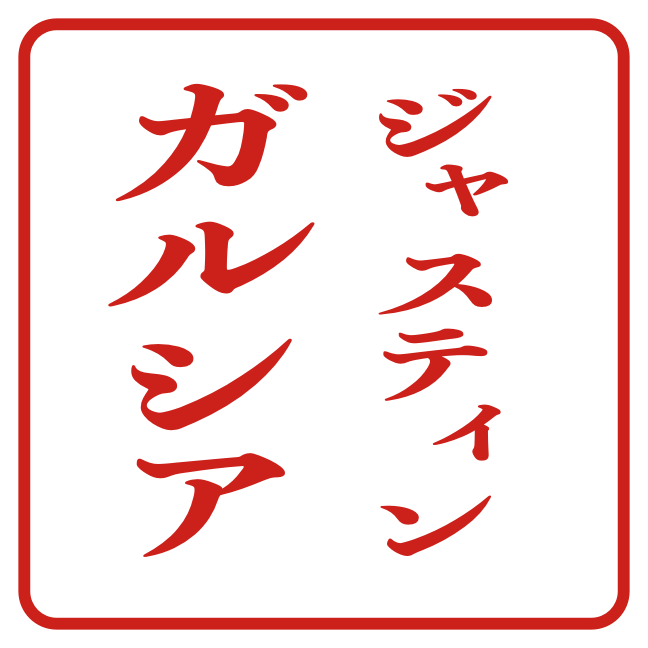
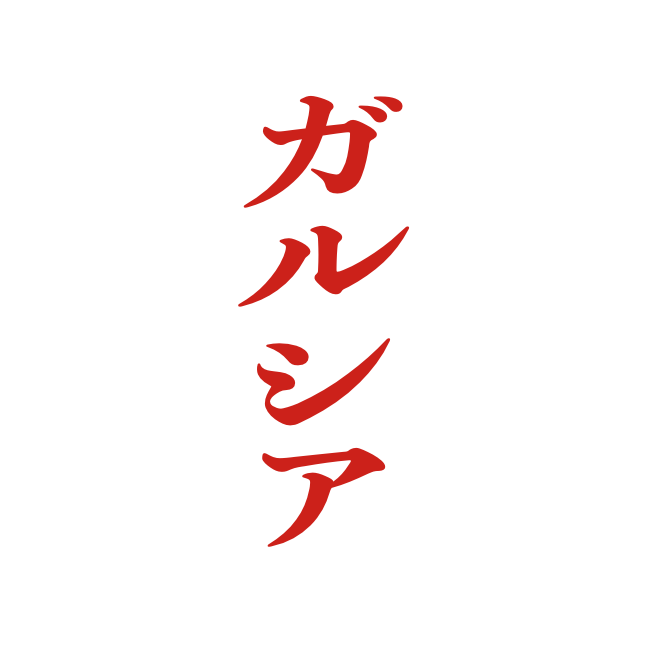
fixes

diff --git a/scripts/generate-karui-seal-qr.swift b/scripts/generate-karui-seal-qr.swift
@@ -1,9 +1,11 @@
-// Generates the animated seal at karui.jp/#qr, where ジャスティン ガルシア turns
-// into a QR code for karui.jp:
-//   assets/karui-qr-seal-name.png  the name seal: red lettering in a rounded frame
-//   assets/karui-qr-seal.png       the plain red QR code in the same frame (the end)
+// Generates the animated seal at karui.jp/#qr, where ガルシア, in a narrow frame
+// like the footer seal, turns into a QR code for karui.jp:
+//   assets/karui-qr-seal-name.png  the red lettering alone, on transparent; the page
+//                                  draws the frame so it can widen
+//   assets/karui-qr-seal.png       the plain red QR code in a square frame (the end)
 //   assets/karui-qr-seal.json      each data dot's start (on the lettering) and end
-//                                  (its QR module), the markers, and the frame
+//                                  (its QR module), extra dots that fill out the
+//                                  lettering, the markers, and both frames
 //
 //   swift scripts/generate-karui-seal-qr.swift
 //
@@ -49,7 +51,7 @@ let frameInset = margin * 0.45, frameWidth = size * 0.022, frameRadius = size * 
 // plain grid is centered at margin + (col + 0.5) * pitch in the rounded one.
 let pitch = size / CGFloat(gridPixels)
 
-func render(_ path: String, _ body: (CGContext) -> Void) -> NSBitmapImageRep {
+func render(framed: Bool = true, _ body: (CGContext) -> Void) -> NSBitmapImageRep {
     let bitmap = NSBitmapImageRep(
         bitmapDataPlanes: nil, pixelsWide: Int(canvas), pixelsHigh: Int(canvas),
         bitsPerSample: 8, samplesPerPixel: 4, hasAlpha: true, isPlanar: false,
@@ -58,10 +60,14 @@ func render(_ path: String, _ body: (CGContext) -> Void) -> NSBitmapImageRep {
     NSGraphicsContext.saveGraphicsState()
     NSGraphicsContext.current = NSGraphicsContext(bitmapImageRep: bitmap)
     let context = NSGraphicsContext.current!.cgContext
+    guard framed else {
+        body(context)
+        NSGraphicsContext.restoreGraphicsState()
+        return bitmap
+    }
     NSColor.white.setFill()
     NSRect(x: 0, y: 0, width: canvas, height: canvas).fill()
     body(context)
-    // The frame both seals share, so it stays still while the dots move.
     let frame = NSBezierPath(
         roundedRect: NSRect(x: 0, y: 0, width: canvas, height: canvas).insetBy(dx: frameInset, dy: frameInset),
         xRadius: frameRadius,
@@ -79,39 +85,37 @@ func write(_ bitmap: NSBitmapImageRep, to path: String) {
     print("Wrote \(path) (\(Int(canvas)) px)")
 }
 
-// Two columns read right to left: ジャスティン, then ガルシア.
+// The name seal's frame: as tall as the code's square frame and shaped like the
+// 24 × 51-point footer seal, centered. The page widens it into the square one.
+let squareSide = canvas - frameInset * 2
+let nameFrame = CGRect(x: (canvas - squareSide * 24 / 51) / 2, y: frameInset, width: squareSide * 24 / 51, height: squareSide)
+
+// ガルシア in one column, set like the footer seal.
 func drawName(_ context: CGContext, color: NSColor) {
-    let columns = ["ジャスティン", "ガルシア"].map(Array.init)
-    let inner = NSRect(x: 0, y: 0, width: canvas, height: canvas).insetBy(dx: frameInset + frameWidth, dy: frameInset + frameWidth)
-    let usableWidth = inner.width * 0.78, usableHeight = inner.height * 0.84
-    let columnWidth = usableWidth / CGFloat(columns.count)
-    for (columnIndex, column) in columns.enumerated() {
-        let x = canvas / 2 + usableWidth / 2 - columnWidth * (CGFloat(columnIndex) + 0.5)
-        let step = usableHeight / CGFloat(column.count)
-        let fontSize = min(step * 1.12, columnWidth * 0.95)
-        // Seal lettering is stretched to fill its column; katakana are narrow otherwise.
-        let stretch = min(columnWidth * 0.92 / fontSize, 1.6)
-        for (index, character) in column.enumerated() {
-            let y = canvas / 2 + usableHeight / 2 - step * (CGFloat(index) + 0.5)
-            // In vertical Japanese, small kana like ャ and ィ sit toward the top right.
-            let isSmall = "ァィゥェォャュョッ".contains(character)
-            let nudge = isSmall ? CGPoint(x: columnWidth * 0.14, y: step * 0.16) : .zero
-            let line = CTLineCreateWithAttributedString(NSAttributedString(
-                string: String(character),
-                attributes: [.font: NSFont(name: fontName, size: fontSize)!, .foregroundColor: color]
-            ))
-            let bounds = CTLineGetBoundsWithOptions(line, .useGlyphPathBounds)
-            context.saveGState()
-            context.translateBy(x: x + nudge.x, y: y + nudge.y)
-            context.scaleBy(x: stretch, y: 1)
-            context.textPosition = CGPoint(x: -bounds.midX, y: -bounds.midY)
-            CTLineDraw(line, context)
-            context.restoreGState()
-        }
+    let column = Array("ガルシア")
+    let inner = nameFrame.insetBy(dx: frameWidth, dy: frameWidth)
+    let usableWidth = inner.width * 0.72, usableHeight = inner.height * 0.80
+    let step = usableHeight / CGFloat(column.count)
+    let fontSize = min(step * 1.12, usableWidth * 0.95)
+    // Seal lettering is stretched to fill its column; katakana are narrow otherwise.
+    let stretch = min(usableWidth * 0.92 / fontSize, 1.6)
+    for (index, character) in column.enumerated() {
+        let y = canvas / 2 + usableHeight / 2 - step * (CGFloat(index) + 0.5)
+        let line = CTLineCreateWithAttributedString(NSAttributedString(
+            string: String(character),
+            attributes: [.font: NSFont(name: fontName, size: fontSize)!, .foregroundColor: color]
+        ))
+        let bounds = CTLineGetBoundsWithOptions(line, .useGlyphPathBounds)
+        context.saveGState()
+        context.translateBy(x: canvas / 2, y: y)
+        context.scaleBy(x: stretch, y: 1)
+        context.textPosition = CGPoint(x: -bounds.midX, y: -bounds.midY)
+        CTLineDraw(line, context)
+        context.restoreGState()
     }
 }
 
-let qrBitmap = render("assets/karui-qr-seal.png") { $0.draw(code, in: CGRect(x: margin, y: margin, width: size, height: size)) }
+let qrBitmap = render { $0.draw(code, in: CGRect(x: margin, y: margin, width: size, height: size)) }
 let detector = CIDetector(ofType: CIDetectorTypeQRCode, context: nil, options: [CIDetectorAccuracy: CIDetectorAccuracyHigh])!
 let decoded = detector.features(in: CIImage(cgImage: qrBitmap.cgImage!)).compactMap { ($0 as? CIQRCodeFeature)?.messageString }
 guard decoded == [url] else {
@@ -119,7 +123,7 @@ guard decoded == [url] else {
     exit(1)
 }
 write(qrBitmap, to: "assets/karui-qr-seal.png")
-write(render("assets/karui-qr-seal-name.png") { drawName($0, color: ink) }, to: "assets/karui-qr-seal-name.png")
+write(render(framed: false) { drawName($0, color: ink) }, to: "assets/karui-qr-seal-name.png")
 
 // The module grid: dark data modules, with the three corner markers and the small
 // alignment marker kept apart, since those are drawn as shapes rather than dots.
@@ -179,8 +183,10 @@ while spacing > 1 {
 }
 guard starts.count == ends.count else { fatalError("Couldn't place \(ends.count) points on the lettering") }
 
-// Pair starts with ends in a shared Hilbert-curve order, so neighbors travel together
-// instead of crisscrossing.
+// Pair starts with ends so the total distance is as small as possible (the Hungarian
+// algorithm): straight paths paired that way never cross, so the dots spread out
+// calmly instead of crisscrossing. Starts go in Hilbert-curve order, which the page
+// uses to stagger departures, so neighbors leave together.
 func hilbert(_ point: CGPoint, order: Int = 64) -> Int {
     var x = max(0, min(order - 1, Int(point.x / canvas * CGFloat(order))))
     var y = max(0, min(order - 1, Int(point.y / canvas * CGFloat(order))))
@@ -196,16 +202,62 @@ func hilbert(_ point: CGPoint, order: Int = 64) -> Int {
     }
     return distance
 }
+func minimumDistancePairing(_ a: [CGPoint], _ b: [CGPoint]) -> [Int] {
+    let n = a.count
+    var u = [Double](repeating: 0, count: n + 1), v = [Double](repeating: 0, count: n + 1)
+    var p = [Int](repeating: 0, count: n + 1), way = [Int](repeating: 0, count: n + 1)
+    func cost(_ i: Int, _ j: Int) -> Double { Double(hypot(a[i - 1].x - b[j - 1].x, a[i - 1].y - b[j - 1].y)) }
+    for i in 1...n {
+        p[0] = i
+        var j0 = 0
+        var minimum = [Double](repeating: .infinity, count: n + 1)
+        var used = [Bool](repeating: false, count: n + 1)
+        repeat {
+            used[j0] = true
+            let i0 = p[j0]
+            var delta = Double.infinity, j1 = 0
+            for j in 1...n where !used[j] {
+                let current = cost(i0, j) - u[i0] - v[j]
+                if current < minimum[j] { minimum[j] = current; way[j] = j0 }
+                if minimum[j] < delta { delta = minimum[j]; j1 = j }
+            }
+            for j in 0...n {
+                if used[j] { u[p[j]] += delta; v[j] -= delta } else { minimum[j] -= delta }
+            }
+            j0 = j1
+        } while p[j0] != 0
+        repeat { let j1 = way[j0]; p[j0] = p[j1]; j0 = j1 } while j0 != 0
+    }
+    var match = [Int](repeating: 0, count: n)
+    for j in 1...n { match[p[j] - 1] = j - 1 }
+    return match  // a[i] pairs with b[match[i]]
+}
+starts.sort { hilbert($0) < hilbert($1) }
+let match = minimumDistancePairing(starts, ends)
+
+// Extra dots so the dotted lettering reads like the lettering: more ink points,
+// about a third of a module apart. Each follows its nearest real dot and fades out
+// as it arrives, so the finished code still has exactly its own dots.
+var placed = starts
+var extras: [[Double]] = []
+for point in inkPoints where placed.allSatisfy({ hypot($0.x - point.x, $0.y - point.y) >= pitch * 0.32 }) {
+    placed.append(point)
+    let nearest = starts.indices.min { hypot(starts[$0].x - point.x, starts[$0].y - point.y) < hypot(starts[$1].x - point.x, starts[$1].y - point.y) }!
+    extras.append([Double(point.x), Double(point.y), Double(nearest)])
+}
+
 let rounding = { (value: CGFloat) in (Double(value) * 10).rounded() / 10 }
-let dots = zip(starts.sorted { hilbert($0) < hilbert($1) }, ends.sorted { hilbert($0) < hilbert($1) }).map { start, end in
-    [start.x, start.y, end.x, end.y].map(rounding)
+let dots = starts.enumerated().map { index, start in
+    [start.x, start.y, ends[match[index]].x, ends[match[index]].y].map(rounding)
 }
 let data: [String: Any] = [
     "canvas": rounding(canvas),
     "pitch": rounding(pitch),
     "frame": [rounding(frameInset), rounding(frameWidth), rounding(frameRadius)],
+    "nameFrame": [nameFrame.minX, nameFrame.minY, nameFrame.width, nameFrame.height].map(rounding),  // x, y, width, height
     "markers": markers.map { $0.map(rounding) },
     "dots": dots,  // [startX, startY, endX, endY], in canvas pixels, y down
+    "extras": extras.map { [rounding($0[0]), rounding($0[1]), $0[2]] },  // [startX, startY, index of the dot it follows]
 ]
 try! JSONSerialization.data(withJSONObject: data).write(to: root.appendingPathComponent("assets/karui-qr-seal.json"))
-print("Wrote assets/karui-qr-seal.json (\(dots.count) dots)")
+print("Wrote assets/karui-qr-seal.json (\(dots.count) dots, \(extras.count) extras)")

diff --git a/karui.html b/karui.html
@@ -67,7 +67,8 @@
     /* The seal that turns into a code: ジャスティン ガルシア dissolves into dots that
        curve into place, then the real code image takes over. Without JavaScript,
        or with Reduce Motion, the finished code shows straight away. */
-    .karui-qr-morph { position: relative; flex: 0 0 100%; aspect-ratio: 1; scroll-snap-align: center; }
+    .karui-qr-morph { position: relative; flex: 0 0 100%; aspect-ratio: 1; scroll-snap-align: center; container-type: inline-size; }
+    .karui-qr-morph-frame { position: absolute; box-sizing: border-box; border: 0 solid #cc2119; }
     .karui-qr-morph > img, .karui-qr-morph > svg { position: absolute; inset: 0; width: 100%; height: 100%; }
     .karui-qr-morph-name { opacity: 0; }
     .karui-qr-url, .karui-seal-title { font-size: 14pt; font-weight: bold; }
@@ -180,9 +181,9 @@
     <section class="karui-qr" id="qr" aria-label="QR code for karui.jp">
       <div class="karui-qr-slides">
         <div class="karui-qr-morph">
-          <img class="karui-qr-morph-name" src="assets/karui-qr-seal-name.png?v=1" alt="" width="648" height="648">
+          <img class="karui-qr-morph-name" src="assets/karui-qr-seal-name.png?v=2" alt="" width="648" height="648">
           <svg class="karui-qr-morph-dots" aria-hidden="true"></svg>
-          <img class="karui-qr-morph-final" src="assets/karui-qr-seal.png?v=1" alt="QR code that opens https://karui.jp/, in seal red" width="648" height="648">
+          <img class="karui-qr-morph-final" src="assets/karui-qr-seal.png?v=2" alt="QR code that opens https://karui.jp/, in seal red" width="648" height="648">
         </div>
         <img src="assets/karui-qr.png?v=1" alt="QR code that opens https://karui.jp/" width="719" height="719">
       </div>
@@ -426,9 +427,10 @@
     setLanguage(localStorage.getItem('karui-language') || preferredLanguage(), false);
   </script>
   <script>
-    // The #qr seal: ジャスティン ガルシア dissolves into dots that curve into their
-    // places in the QR code, then the real code image takes over, so what people scan
-    // is the tested image. Tap to skip. Reduce Motion shows the finished code at once.
+    // The #qr seal: ガルシア, in a narrow frame like the footer seal, dissolves into
+    // dots that curve into their places in the QR code while the frame widens into a
+    // square, then the real code image takes over, so what people scan is the tested
+    // image. Tap to skip. Reduce Motion shows the finished code at once.
     (() => {
       const view = document.getElementById('qr');
       const stage = view && view.querySelector('.karui-qr-morph');
@@ -446,6 +448,7 @@
       const easeInOut = (t) => (t < 0.5 ? 4 * t * t * t : 1 - Math.pow(-2 * t + 2, 3) / 2);
       let dots = [];
       let markers = [];
+      let frame = null;
       let running = [];
 
       const make = (tag, attributes) => {
@@ -454,12 +457,28 @@
         return element;
       };
 
-      function build(data) {
+      let data = null;
+
+      function build(json) {
+        data = json;
         const [inset, width, radius] = data.frame;
         const p = data.pitch;
         svg.setAttribute('viewBox', `0 0 ${data.canvas} ${data.canvas}`);
-        // The frame both seals share, so it never moves.
-        svg.append(make('rect', { x: inset, y: inset, width: data.canvas - inset * 2, height: data.canvas - inset * 2, rx: radius, fill: 'none', stroke: ink, 'stroke-width': width }));
+        // The frame is a box under the dots, sized in container units so it scales
+        // with the stage. Its resting place is the code's square frame; play() starts
+        // it at the name's narrow one.
+        const box = ([x, y, w, h]) => {
+          const unit = (value) => `${(value / data.canvas) * 100}cqw`;
+          return { left: unit(x - width / 2), top: unit(y - width / 2), width: unit(w + width), height: unit(h + width) };
+        };
+        const square = box([inset, inset, data.canvas - inset * 2, data.canvas - inset * 2]);
+        frame = { element: document.createElement('div'), from: box(data.nameFrame), to: square };
+        frame.element.className = 'karui-qr-morph-frame';
+        Object.assign(frame.element.style, square, {
+          borderWidth: `${(width / data.canvas) * 100}cqw`,
+          borderRadius: `${((radius + width / 2) / data.canvas) * 100}cqw`,
+        });
+        stage.insertBefore(frame.element, svg);
         markers = data.markers.map(([x, y, w]) => {
           const group = make('g', {});
           const core = w === 5 * p ? p : 3 * p;
@@ -472,13 +491,22 @@
           svg.append(group);
           return group;
         });
-        dots = data.dots.map(([sx, sy, ex, ey]) => {
-          const dot = make('circle', { cx: ex, cy: ey, r: p * 0.45, fill: ink });
+        const circle = (x, y) => {
+          const dot = make('circle', { cx: x, cy: y, r: p * 0.45, fill: ink });
           dot.style.transformBox = 'fill-box';
           dot.style.transformOrigin = 'center';
           svg.append(dot);
-          return { dot, dx: sx - ex, dy: sy - ey };
+          return dot;
+        };
+        // Extras fill out the dotted lettering: each starts on the ink between the
+        // real dots, follows one of them to its module, and fades out on the way.
+        const extras = data.extras.map(([sx, sy, index]) => {
+          const [, , ex, ey] = data.dots[index];
+          return { dot: circle(ex, ey), dx: sx - ex, dy: sy - ey, order: index, fades: true };
         });
+        dots = extras.concat(data.dots.map(([sx, sy, ex, ey], index) => (
+          { dot: circle(ex, ey), dx: sx - ex, dy: sy - ey, order: index, fades: false }
+        )));
       }
 
       // Cancelling returns everything to the finished code: the image on top of the
@@ -491,27 +519,34 @@
       function play() {
         skip();
         const timing = (delay, duration, extra = {}) => ({ delay, duration, fill: 'both', easing: 'linear', ...extra });
-        running.push(name.animate([{ opacity: 1 }, { opacity: 0 }], timing(T.hold, T.dissolve)));
-        dots.forEach(({ dot, dx, dy }, i) => {
+        // The dots come up over the still-visible lettering, then the lettering fades
+        // out from under them, so the name breaks into dots instead of being swapped.
+        const lead = 250, appear = 300;
+        running.push(name.animate([{ opacity: 1 }, { opacity: 0 }], timing(T.hold + 100, T.dissolve)));
+        const count = data.dots.length;
+        dots.forEach(({ dot, dx, dy, order, fades }) => {
           // A quadratic curve bending off to the same side every time, so the dots
-          // sweep in streams rather than sliding straight.
+          // sweep rather than slide straight.
           const cx = dx / 2 - dy * 0.35, cy = dy / 2 + dx * 0.35;
-          const stagger = (i / dots.length) * T.stagger;
-          const total = T.dissolve + stagger + T.travel;
-          const depart = (T.dissolve + stagger) / total;
+          const stagger = (order / count) * T.stagger;
+          const total = lead + T.dissolve + stagger + T.travel;
+          const depart = (lead + T.dissolve + stagger) / total;
           const start = `translate(${dx}px, ${dy}px) scale(0.55)`;
           const frames = [
             { transform: start, opacity: 0, offset: 0 },
-            { transform: start, opacity: 1, offset: T.dissolve / total },
+            { transform: start, opacity: 1, offset: appear / total },
             { transform: start, opacity: 1, offset: depart },
           ];
           for (let k = 1; k <= 16; k += 1) {
             const u = easeInOut(k / 16);
             const a = (1 - u) * (1 - u), b = 2 * (1 - u) * u;
-            frames.push({ transform: `translate(${a * dx + b * cx}px, ${a * dy + b * cy}px) scale(${0.55 + 0.45 * u})`, opacity: 1, offset: depart + (1 - depart) * (k / 16) });
+            // Extras fade over the last 40% of the trip, merging into their dot.
+            const opacity = fades ? Math.min(1, (1 - k / 16) / 0.4) : 1;
+            frames.push({ transform: `translate(${a * dx + b * cx}px, ${a * dy + b * cy}px) scale(${0.55 + 0.45 * u})`, opacity, offset: depart + (1 - depart) * (k / 16) });
           }
-          running.push(dot.animate(frames, timing(T.hold, total)));
+          running.push(dot.animate(frames, timing(T.hold - lead, total)));
         });
+        running.push(frame.element.animate([frame.from, frame.to], timing(T.hold + T.dissolve, T.travel * 0.8, { easing: 'cubic-bezier(0.65, 0, 0.35, 1)' })));
         markers.forEach((marker) => running.push(marker.animate(
           [{ transform: 'scale(0.6)', opacity: 0 }, { transform: 'scale(1)', opacity: 1 }],
           timing(T.markers, T.markersFor, { easing: 'cubic-bezier(0.34, 1.4, 0.64, 1)' })
@@ -519,7 +554,8 @@
         running.push(final.animate([{ opacity: 0 }, { opacity: 1 }], timing(T.final, T.finalFor)));
       }
 
-      const loaded = fetch(new URL('karui-qr-seal.json', final.src))
+      // Same version query as the code image, so they update together.
+      const loaded = fetch(new URL(`karui-qr-seal.json${new URL(final.src).search}`, final.src))
         .then((response) => response.json())
         .then(build)
         .then(() => true, () => false);
